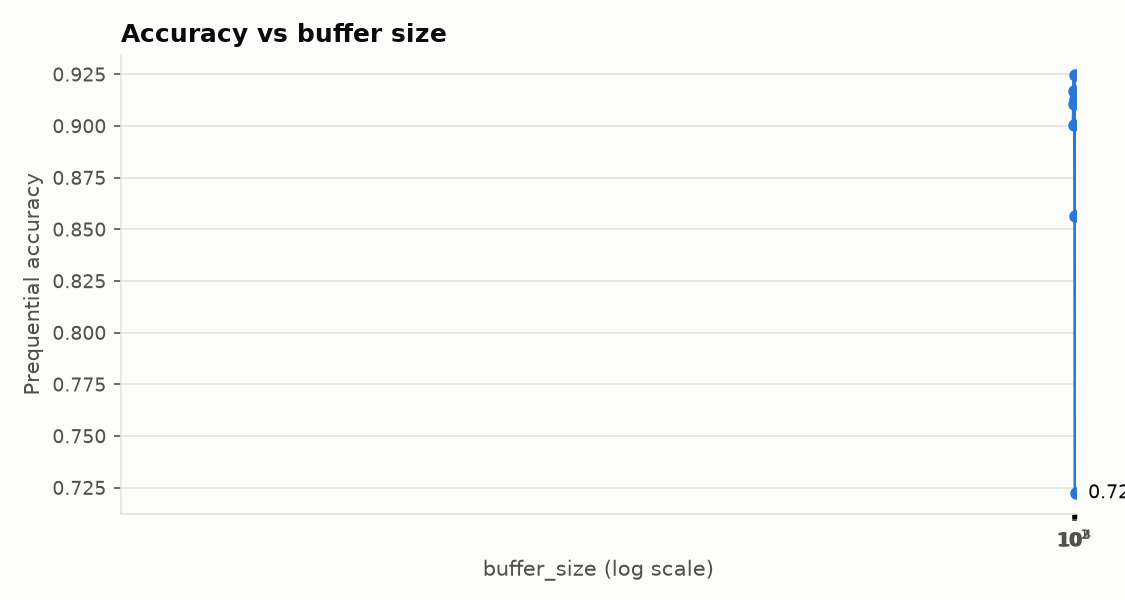
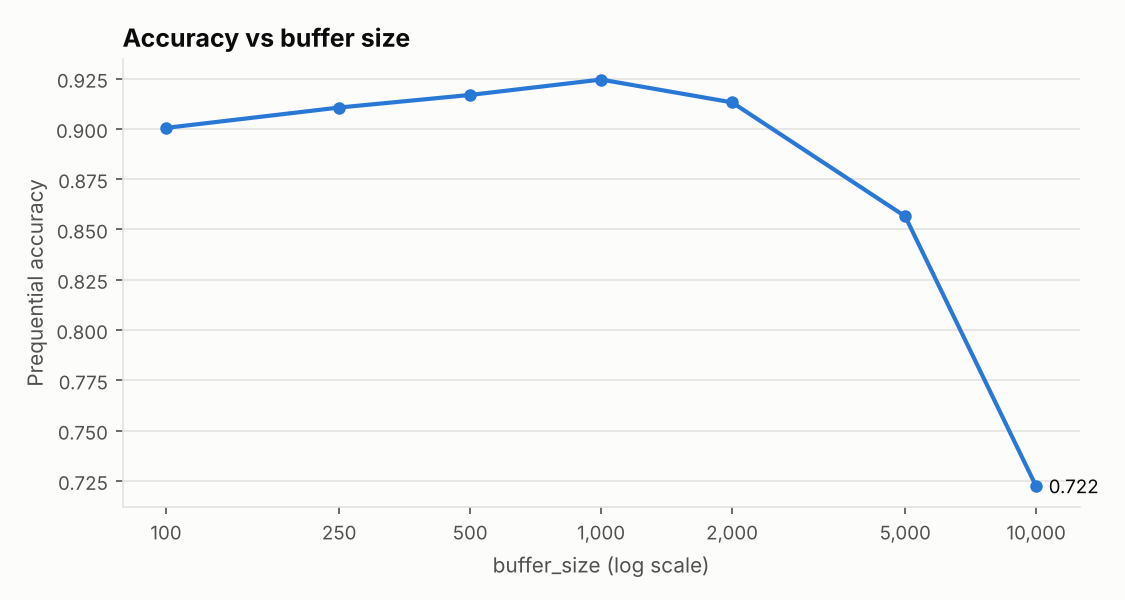
Added the benchmark results.

diff --git a/benchmark/results/benchmark_results.md b/benchmark/results/benchmark_results.md
@@ -1,48 +1,48 @@
 **Environment**
-- python: 3.13.18
-- numpy: 2.5.3
-- platform: Linux-6.18.44-fc-v378-x86_64-with-glibc2.39
+- python: 3.12.3
+- numpy: 2.5.4
+- platform: Linux-7.0.0-42-generic-x86_64-with-glibc2.39
 - processor: x86_64
-- cpu_count: 2
+- cpu_count: 12
 - seed: 0
 
 | case | n | baseline | loop (ms) | vectorised (ms) | speed-up | results match |
 |---|---:|---|---:|---:|---:|:---:|
-| StandardScaler | 1,000 | python loops | 1.070 | 0.148 | 7.2x | yes |
-| StandardScaler | 10,000 | python loops | 12.738 | 0.864 | 14.8x | yes |
-| StandardScaler | 100,000 | python loops | 157.673 | 10.647 | 14.8x | yes |
-| MinMaxScaler | 1,000 | python loops | 0.814 | 0.233 | 3.5x | yes |
-| MinMaxScaler | 10,000 | python loops | 8.829 | 1.171 | 7.5x | yes |
-| MinMaxScaler | 100,000 | python loops | 129.350 | 17.161 | 7.5x | yes |
-| OneHotEncoder | 1,000 | dict + loop | 0.120 | 0.432 | 0.3x | yes |
-| OneHotEncoder | 10,000 | dict + loop | 1.198 | 2.754 | 0.4x | yes |
-| OneHotEncoder | 100,000 | dict + loop | 17.812 | 27.435 | 0.6x | yes |
-| rank (average, ties) | 1,000 | sort + tie loop | 0.272 | 0.188 | 1.4x | yes |
-| rank (average, ties) | 10,000 | sort + tie loop | 2.736 | 0.885 | 3.1x | yes |
-| rank (average, ties) | 100,000 | sort + tie loop | 55.279 | 9.813 | 5.6x | yes |
-| percentile (5 levels) | 1,000 | sorted list | 0.091 | 0.262 | 0.3x | yes |
-| percentile (5 levels) | 10,000 | sorted list | 1.011 | 0.363 | 2.8x | yes |
-| percentile (5 levels) | 100,000 | sorted list | 12.953 | 0.943 | 13.7x | yes |
-| topk (k=10) | 1,000 | heapq.nlargest | 0.034 | 0.060 | 0.6x | yes |
-| topk (k=10) | 100,000 | heapq.nlargest | 1.385 | 0.461 | 3.0x | yes |
-| topk (k=10) | 1,000,000 | heapq.nlargest | 13.864 | 7.150 | 1.9x | yes |
-| confusion_matrix (k=5) | 1,000 | dict counting | 0.049 | 0.104 | 0.5x | yes |
-| confusion_matrix (k=5) | 100,000 | dict counting | 4.535 | 1.335 | 3.4x | yes |
-| confusion_matrix (k=5) | 1,000,000 | dict counting | 44.520 | 23.917 | 1.9x | yes |
-| roc_auc_score (ties) | 200 | pairwise O(P*N) | 0.225 | 0.201 | 1.1x | yes |
-| roc_auc_score (ties) | 1,000 | pairwise O(P*N) | 5.513 | 0.199 | 27.7x | yes |
-| roc_auc_score (ties) | 3,000 | pairwise O(P*N) | 50.680 | 0.321 | 157.8x | yes |
-| mean+var (5% NaN) | 1,000 | python loops | 0.824 | 0.308 | 2.7x | yes |
-| mean+var (5% NaN) | 10,000 | python loops | 7.894 | 2.058 | 3.8x | yes |
-| mean+var (5% NaN) | 100,000 | python loops | 81.281 | 23.669 | 3.4x | yes |
-| histogram (20 bins) | 1,000 | bisect per element | 0.138 | 0.101 | 1.4x | yes |
-| histogram (20 bins) | 100,000 | bisect per element | 12.466 | 3.110 | 4.0x | yes |
-| histogram (20 bins) | 1,000,000 | bisect per element | 122.809 | 35.069 | 3.5x | yes |
-| grad (central, n vars) | 100 | python-list f | 0.561 | 0.816 | 0.7x | yes |
-| grad (central, n vars) | 500 | python-list f | 10.515 | 3.543 | 3.0x | yes |
-| grad (central, n vars) | 2,000 | python-list f | 166.134 | 26.274 | 6.3x | yes |
-| binary_search (100 queries) | 1,000 | linear scan | 1.611 | 0.425 | 3.8x | yes |
-| binary_search (100 queries) | 10,000 | linear scan | 14.314 | 0.457 | 31.3x | yes |
-| binary_search (100 queries) | 100,000 | linear scan | 151.901 | 0.520 | 292.2x | yes |
-| binary_search method=loop vs searchsorted | 10,000 | library loop | 0.467 | 0.443 | 1.1x | yes |
-| binary_search method=loop vs searchsorted | 1,000,000 | library loop | 0.703 | 0.532 | 1.3x | yes |
+| StandardScaler | 1,000 | python loops | 2.763 | 0.322 | 8.6x | yes |
+| StandardScaler | 10,000 | python loops | 34.487 | 2.502 | 13.8x | yes |
+| StandardScaler | 100,000 | python loops | 403.410 | 21.885 | 18.4x | yes |
+| MinMaxScaler | 1,000 | python loops | 1.763 | 0.661 | 2.7x | yes |
+| MinMaxScaler | 10,000 | python loops | 23.414 | 2.077 | 11.3x | yes |
+| MinMaxScaler | 100,000 | python loops | 407.646 | 25.774 | 15.8x | yes |
+| OneHotEncoder | 1,000 | dict + loop | 1.144 | 2.023 | 0.6x | yes |
+| OneHotEncoder | 10,000 | dict + loop | 3.743 | 5.883 | 0.6x | yes |
+| OneHotEncoder | 100,000 | dict + loop | 60.083 | 58.746 | 1.0x | yes |
+| rank (average, ties) | 1,000 | sort + tie loop | 0.460 | 0.291 | 1.6x | yes |
+| rank (average, ties) | 10,000 | sort + tie loop | 5.431 | 1.365 | 4.0x | yes |
+| rank (average, ties) | 100,000 | sort + tie loop | 78.274 | 14.850 | 5.3x | yes |
+| percentile (5 levels) | 1,000 | sorted list | 0.140 | 0.602 | 0.2x | yes |
+| percentile (5 levels) | 10,000 | sorted list | 1.704 | 0.679 | 2.5x | yes |
+| percentile (5 levels) | 100,000 | sorted list | 22.878 | 3.084 | 7.4x | yes |
+| topk (k=10) | 1,000 | heapq.nlargest | 0.097 | 0.147 | 0.7x | yes |
+| topk (k=10) | 100,000 | heapq.nlargest | 2.243 | 0.917 | 2.4x | yes |
+| topk (k=10) | 1,000,000 | heapq.nlargest | 36.375 | 14.626 | 2.5x | yes |
+| confusion_matrix (k=5) | 1,000 | dict counting | 0.120 | 0.173 | 0.7x | yes |
+| confusion_matrix (k=5) | 100,000 | dict counting | 12.427 | 2.987 | 4.2x | yes |
+| confusion_matrix (k=5) | 1,000,000 | dict counting | 126.987 | 40.181 | 3.2x | yes |
+| roc_auc_score (ties) | 200 | pairwise O(P*N) | 0.443 | 0.274 | 1.6x | yes |
+| roc_auc_score (ties) | 1,000 | pairwise O(P*N) | 10.207 | 0.352 | 29.0x | yes |
+| roc_auc_score (ties) | 3,000 | pairwise O(P*N) | 91.174 | 0.551 | 165.5x | yes |
+| mean+var (5% NaN) | 1,000 | python loops | 1.797 | 0.612 | 2.9x | yes |
+| mean+var (5% NaN) | 10,000 | python loops | 19.934 | 6.772 | 2.9x | yes |
+| mean+var (5% NaN) | 100,000 | python loops | 195.659 | 40.131 | 4.9x | yes |
+| histogram (20 bins) | 1,000 | bisect per element | 0.432 | 0.133 | 3.3x | yes |
+| histogram (20 bins) | 100,000 | bisect per element | 44.036 | 4.570 | 9.6x | yes |
+| histogram (20 bins) | 1,000,000 | bisect per element | 580.114 | 57.986 | 10.0x | yes |
+| grad (central, n vars) | 100 | python-list f | 2.361 | 1.626 | 1.5x | yes |
+| grad (central, n vars) | 500 | python-list f | 27.042 | 9.312 | 2.9x | yes |
+| grad (central, n vars) | 2,000 | python-list f | 430.534 | 50.854 | 8.5x | yes |
+| binary_search (100 queries) | 1,000 | linear scan | 2.959 | 0.997 | 3.0x | yes |
+| binary_search (100 queries) | 10,000 | linear scan | 31.395 | 1.050 | 29.9x | yes |
+| binary_search (100 queries) | 100,000 | linear scan | 340.171 | 1.065 | 319.4x | yes |
+| binary_search method=loop vs searchsorted | 10,000 | library loop | 1.054 | 1.039 | 1.0x | yes |
+| binary_search method=loop vs searchsorted | 1,000,000 | library loop | 1.273 | 1.097 | 1.2x | yes |

diff --git a/benchmark/results/stream_loop_vs_vectorised.md b/benchmark/results/stream_loop_vs_vectorised.md
@@ -1,24 +1,24 @@
 **Environment**
-- python: 3.13.18
-- numpy: 2.5.3
-- platform: Linux-6.18.44-fc-v378-x86_64-with-glibc2.39
+- python: 3.12.3
+- numpy: 2.5.4
+- platform: Linux-7.0.0-42-generic-x86_64-with-glibc2.39
 - processor: x86_64
-- cpu_count: 2
+- cpu_count: 12
 - seed: 0
 
 | case | n | baseline | loop (ms) | vectorised (ms) | speed-up | results match |
 |---|---:|---|---:|---:|---:|:---:|
-| tree: best split of one node (d=8) | 200 | loop over features x thresholds x rows | 10.055 | 0.396 | 25.4x | yes |
-| tree: best split of one node (d=8) | 1,000 | loop over features x thresholds x rows | 55.039 | 1.325 | 41.5x | yes |
-| tree: best split of one node (d=8) | 4,000 | loop over features x thresholds x rows | 266.248 | 4.592 | 58.0x | yes |
-| tree: predict (depth 6) | 2,000 | one root-to-leaf walk per row | 0.394 | 0.188 | 2.1x | yes |
-| tree: predict (depth 6) | 20,000 | one root-to-leaf walk per row | 3.780 | 1.123 | 3.4x | yes |
-| tree: predict (depth 6) | 200,000 | one root-to-leaf walk per row | 57.380 | 22.145 | 2.6x | yes |
-| tree: buffered stream (buffer 500, depth 4) | 1,000 | loop tree, per-row predict | 113.258 | 6.178 | 18.3x | yes |
-| tree: buffered stream (buffer 500, depth 4) | 4,000 | loop tree, per-row predict | 438.776 | 22.032 | 19.9x | yes |
-| metrics: confusion matrix, chunks of 100 | 1,000,000 | one increment per sample | 39.042 | 190.566 | 0.2x | yes |
-| stats: running mean/variance, chunks of 100 | 1,000,000 | Welford, one value at a time | 48.047 | 303.379 | 0.2x | yes |
-| stats: histogram (20 bins), chunks of 100 | 1,000,000 | one bin lookup per value | 88.795 | 136.912 | 0.6x | yes |
-| metrics: confusion matrix, chunks of 10,000 | 1,000,000 | one increment per sample | 38.377 | 16.305 | 2.4x | yes |
-| stats: running mean/variance, chunks of 10,000 | 1,000,000 | Welford, one value at a time | 50.000 | 8.518 | 5.9x | yes |
-| stats: histogram (20 bins), chunks of 10,000 | 1,000,000 | one bin lookup per value | 79.905 | 33.913 | 2.4x | yes |
+| tree: best split of one node (d=8) | 200 | loop over features x thresholds x rows | 18.101 | 0.706 | 25.6x | yes |
+| tree: best split of one node (d=8) | 1,000 | loop over features x thresholds x rows | 109.930 | 2.905 | 37.8x | yes |
+| tree: best split of one node (d=8) | 4,000 | loop over features x thresholds x rows | 680.552 | 21.558 | 31.6x | yes |
+| tree: predict (depth 6) | 2,000 | one root-to-leaf walk per row | 0.730 | 0.753 | 1.0x | yes |
+| tree: predict (depth 6) | 20,000 | one root-to-leaf walk per row | 6.754 | 2.967 | 2.3x | yes |
+| tree: predict (depth 6) | 200,000 | one root-to-leaf walk per row | 141.909 | 67.750 | 2.1x | yes |
+| tree: buffered stream (buffer 500, depth 4) | 1,000 | loop tree, per-row predict | 288.336 | 19.860 | 14.5x | yes |
+| tree: buffered stream (buffer 500, depth 4) | 4,000 | loop tree, per-row predict | 832.910 | 56.943 | 14.6x | yes |
+| metrics: confusion matrix, chunks of 100 | 1,000,000 | one increment per sample | 97.001 | 727.256 | 0.1x | yes |
+| stats: running mean/variance, chunks of 100 | 1,000,000 | Welford, one value at a time | 138.619 | 898.136 | 0.2x | yes |
+| stats: histogram (20 bins), chunks of 100 | 1,000,000 | one bin lookup per value | 490.930 | 358.476 | 1.4x | yes |
+| metrics: confusion matrix, chunks of 10,000 | 1,000,000 | one increment per sample | 87.276 | 34.157 | 2.6x | yes |
+| stats: running mean/variance, chunks of 10,000 | 1,000,000 | Welford, one value at a time | 139.470 | 23.794 | 5.9x | yes |
+| stats: histogram (20 bins), chunks of 10,000 | 1,000,000 | one bin lookup per value | 397.458 | 50.056 | 7.9x | yes |

diff --git a/benchmark/results/buffer_size_results.md b/benchmark/results/buffer_size_results.md
@@ -1,9 +1,9 @@
 **Environment**
-- python: 3.13.18
-- numpy: 2.5.3
-- platform: Linux-6.18.44-fc-v378-x86_64-with-glibc2.39
+- python: 3.12.3
+- numpy: 2.5.4
+- platform: Linux-7.0.0-42-generic-x86_64-with-glibc2.39
 - processor: x86_64
-- cpu_count: 2
+- cpu_count: 12
 - seed: 0
 - stream: 40,000 samples, 10 features, 4 classes, chunks of 100, labelling rule changes at the half-way point, 5% label noise
 - tree: max_depth=6, gini; accuracy is prequential (test-then-train)
@@ -11,10 +11,10 @@
 
 | buffer_size | retrains | accuracy | before drift | after drift | samples to recover | mean retrain (ms) | total retrain (ms) | peak memory (KiB) |
 |---:|---:|---:|---:|---:|---:|---:|---:|---:|
-| 100 | 400 | 0.900 | 0.905 | 0.896 | 1,000 | 1.33 | 533.0 | 2.9 |
-| 250 | 133 | 0.911 | 0.917 | 0.904 | 1,200 | 3.75 | 498.2 | 23.5 |
-| 500 | 80 | 0.917 | 0.926 | 0.908 | 1,300 | 6.20 | 496.2 | 40.3 |
-| 1,000 | 40 | 0.924 | 0.941 | 0.909 | 1,700 | 12.88 | 515.2 | 83.6 |
-| 2,000 | 20 | 0.913 | 0.950 | 0.880 | 2,700 | 20.36 | 407.3 | 170.3 |
-| 5,000 | 8 | 0.856 | 0.957 | 0.781 | 5,700 | 52.07 | 416.5 | 427.2 |
-| 10,000 | 4 | 0.722 | 0.960 | 0.604 | 10,700 | 106.93 | 427.7 | 856.6 |
+| 100 | 400 | 0.900 | 0.905 | 0.896 | 1,000 | 3.60 | 1440.2 | 2.9 |
+| 250 | 133 | 0.911 | 0.917 | 0.904 | 1,200 | 12.49 | 1660.7 | 23.5 |
+| 500 | 80 | 0.917 | 0.926 | 0.908 | 1,300 | 18.36 | 1468.8 | 40.3 |
+| 1,000 | 40 | 0.924 | 0.941 | 0.909 | 1,700 | 26.88 | 1075.2 | 83.6 |
+| 2,000 | 20 | 0.913 | 0.950 | 0.880 | 2,700 | 44.85 | 896.9 | 170.3 |
+| 5,000 | 8 | 0.856 | 0.957 | 0.781 | 5,700 | 104.85 | 838.8 | 427.2 |
+| 10,000 | 4 | 0.722 | 0.960 | 0.604 | 10,700 | 203.36 | 813.4 | 856.6 |
